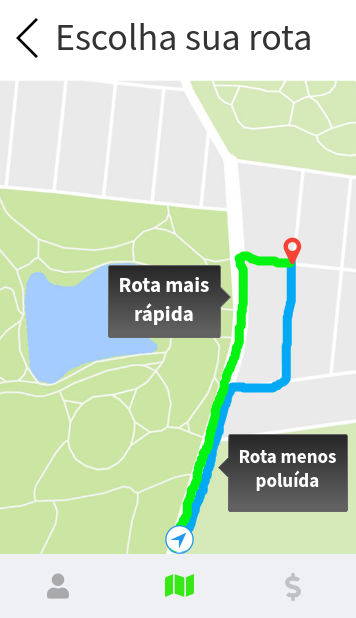
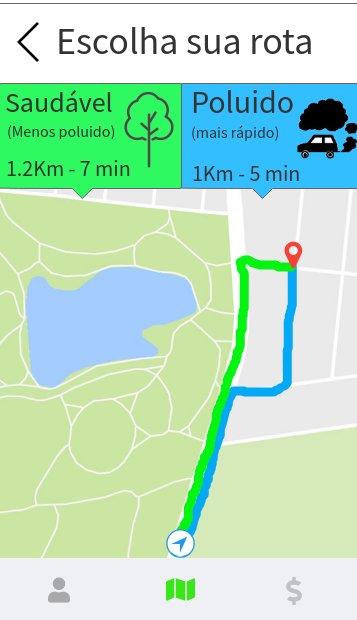
Add files via upload

diff --git a/mockup/vamos.html b/mockup/vamos.html
@@ -2,9 +2,10 @@
 <img src="vamos.png" usemap="#image-map">
 
 <map name="image-map">
-    <area target="" alt="" title="" href="escolha%20a%20rota.html" coords="2,5,1,71,69,73,74,9" shape="poly">
-    <area target="" alt="" title="" href="#" coords="299,494,51" shape="circle">
-    <area target="" alt="" title="" href="usuario.html" coords="0,556,116,556,116,620,0,620" shape="poly">
-    <area target="" alt="" title="" href="index.html" coords="121,555,123,621,237,621,239,556" shape="poly">
-    <area target="" alt="" title="" href="dinheiro%20acesso.html" coords="252,557,243,621,352,619,355,560" shape="poly">
+    <area target="" alt="" title="" href="escolha%20a%20rota.html" coords="0,3,59,78" shape="rect">
+    <area target="" alt="" title="" href="usuario.html" coords="4,562,108,622" shape="0">
+    <area target="" alt="" title="" href="indes.html" coords="118,559,238,621" shape="0">
+    <area target="" alt="" title="" href="dinheiro%20acesso.html" coords="256,557,351,614" shape="0">
+    <area target="" alt="" title="" href="embreve.html" coords="304,500,51" shape="circle">
+    <area target="" alt="" title="" href="escolha%20a%20rota.html" coords="0,80,354,187" shape="0">
 </map>

diff --git a/mockup/escolha a rota.html b/mockup/escolha a rota.html
@@ -2,9 +2,9 @@
 <img src="escolha a rota.png" usemap="#image-map">
 
 <map name="image-map">
-    <area target="" alt="" title="" href="index.html" coords="1,1,54,6,58,65,6,78" shape="poly">
-    <area target="" alt="" title="" href="index.html" coords="139,555,217,557,215,616,140,614" shape="poly">
-    <area target="" alt="" title="" href="usuario.html" coords="14,562,99,559,98,615,27,615" shape="poly">
-    <area target="" alt="" title="" href="dinheiro%20acesso.html" coords="251,558,248,613,342,614,339,563" shape="poly">
-    <area target="" alt="" title="" href="vamos.html" coords="98,244,243,236,235,390,347,418,350,526,207,534,216,414,204,350,94,355" shape="poly">
+    <area target="" alt="" title="" href="index.html" coords="-1,4,57,75" shape="rect">
+    <area target="" alt="" title="" href="vamos.html" coords="1,87,356,188" shape="0">
+    <area target="" alt="" title="" href="usuario.html" coords="0,558,115,615" shape="0">
+    <area target="" alt="" title="" href="dinheiro%20acesso.html" coords="245,561,351,615" shape="0">
+    <area target="" alt="" title="" href="index.html" coords="123,558,235,616" shape="0">
 </map>

diff --git a/mockup/cupons.html b/mockup/cupons.html
@@ -2,6 +2,7 @@
 <img src="cupons.png" usemap="#image-map">
 
 <map name="image-map">
-    <area target="" alt="" title="" href="index.html" coords="128,555,235,621" shape="rect">
-    <area target="" alt="" title="" href="usuario.html" coords="2,559,107,622,109,616" shape="rect">
+    <area target="" alt="" title="" href="usuario.html" coords="2,559,102,616" shape="rect">
+    <area target="" alt="" title="" href="index.html" coords="111,559,246,621" shape="0">
+    <area target="" alt="" title="" href="embreve.html" coords="0,1,353,550" shape="0">
 </map>

diff --git a/mockup/embreve.html b/mockup/embreve.html
@@ -1,0 +1,9 @@
+<!-- Image Map Generated by http://www.image-map.net/ -->
+<img src="embreve.png" usemap="#image-map">
+
+<map name="image-map">
+    <area target="" alt="" title="" href="index.html" coords="67,70,7,7" shape="rect">
+    <area target="" alt="" title="" href="usuario.html" coords="3,558,106,624" shape="0">
+    <area target="" alt="" title="" href="index.html" coords="121,559,234,620,259,562,359,622" shape="0">
+    <area target="" alt="" title="" href="dinheiro%acesso.html" coords="247,556,364,620" shape="0">
+</map>

diff --git a/mockup/usuario.html b/mockup/usuario.html
@@ -4,5 +4,5 @@
 <map name="image-map">
     <area target="" alt="" title="" href="index.html" coords="112,551,112,611,232,611,233,554" shape="poly">
     <area target="" alt="" title="" href="dinheiro%20acesso.html" coords="248,552,244,611,349,611,347,555" shape="poly">
-    <area target="" alt="" title="" href="#" coords="342,11,277,8,282,92,340,87" shape="poly">
+    <area target="" alt="" title="" href="embreve.html" coords="342,11,277,8,282,92,340,87" shape="poly">
 </map>
